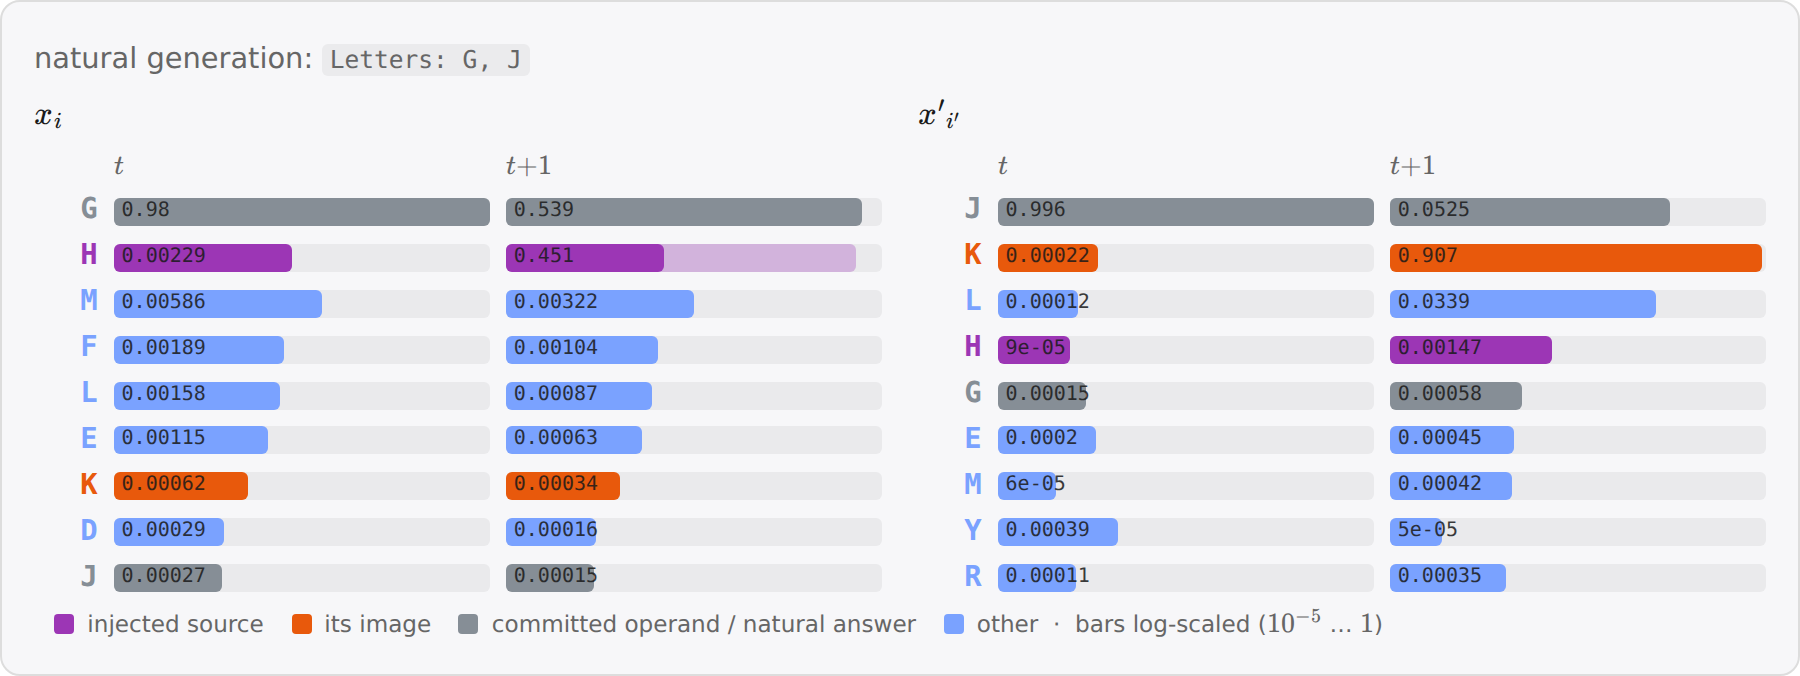
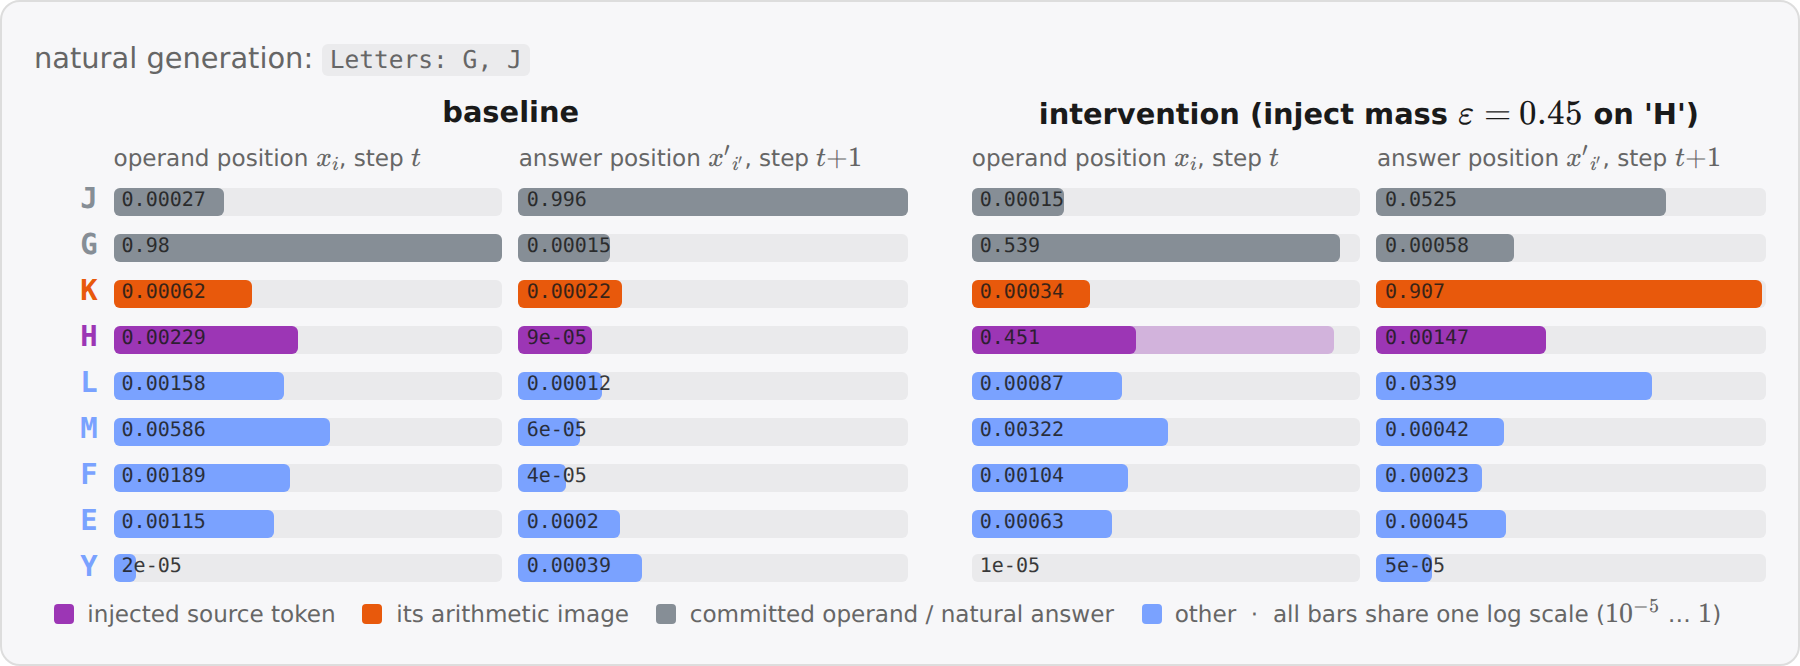
Letters card: baseline|intervention columns, t/t+1 = operand/answer positions, unified rows + shared log range, NL-prefaced symbols
Claude-Session: https://claude.ai/code/session_01U8CiyQ7ySpBDkYEq4FzNBU

diff --git a/post.html b/post.html
@@ -35,6 +35,10 @@ p>em:first-child{color:var(--muted)}
 .brow{display:grid;grid-template-columns:11em 1fr 1fr;gap:8px;align-items:center;margin:2px 0}
 .card .cols2 .brow{grid-template-columns:2.2em 1fr 1fr}
 .card .cols2 .brow.wide{grid-template-columns:10.5em 1fr}
+.brow.b4c{grid-template-columns:2.2em 1fr 1fr 16px 1fr 1fr}
+.ghead .gh{font-weight:600;text-align:center}
+.ghead .gh.s2{grid-column:span 2}
+.ghead{margin:6px 0 0}
 .brow .btok{font-family:ui-monospace,monospace;text-align:right;font-weight:600}
 .brow .btok.sm{font-weight:400;font-size:.85em;text-align:right}
 .btrack{position:relative;height:14px;background:color-mix(in srgb,var(--fg) 6%,transparent);border-radius:3px;overflow:visible}

diff --git a/scripts/build_html.py b/scripts/build_html.py
@@ -66,23 +66,9 @@ LOGFLOOR = 1e-5
 lgw = lambda p: max(0.0, (math.log10(max(p, LOGFLOOR)) - math.log10(LOGFLOOR)) / -math.log10(LOGFLOOR)) * 100
 
 
-def bar_rows(entries, cls_of, inc_tok=None, inc_base=None):
-    """Log-scaled paired bars (t, t+1). For inc_tok, the injected increment beyond inc_base is
-    drawn at low alpha; alphas of the t and t+1 bars themselves are identical."""
-    rows = [('<div class="brow bhead"><span class="btok"></span><span class="bh">$t$</span>'
-             '<span class="bh">$t{+}1$</span></div>')]
-    for tok, p1, p2 in entries:
-        col = CL[cls_of(tok)]
-        seg2 = f'<i style="width:{lgw(p2):.1f}%;background:{col}"></i>'
-        if tok == inc_tok:
-            seg2 = (f'<i style="width:{lgw(p2):.1f}%;background:{col};opacity:.3"></i>'
-                    f'<i style="width:{lgw(inc_base):.1f}%;background:{col}"></i>')
-        rows.append(
-            f'<div class="brow"><span class="btok" style="color:{col}">{E(tok)}</span>'
-            f'<span class="btrack"><i style="width:{lgw(p1):.1f}%;background:{col}"></i>'
-            f'<b class="bv1">{p1:.3g}</b></span>'
-            f'<span class="btrack">{seg2}<b class="bv2">{p2:.3g}</b></span></div>')
-    return "".join(rows)
+def bar(p, col):
+    return (f'<span class="btrack"><i style="width:{lgw(p):.1f}%;background:{col}"></i>'
+            f'<b class="bv1">{p:.3g}</b></span>')
 
 
 def pills(*ps):
@@ -93,17 +79,33 @@ def ill_letters_example():
     d = json.load(open(DATA / "letters_example.json"))
     cls = lambda tok: ("inj" if tok == d["x"] else "tgt" if tok == d["img"] else
                        "att" if tok in (d["ja"], d["nat"]) else "oth")
-    x_before = next(p1 for tok, p1, _ in d["A"] if tok == d["x"])
+    sub_t = "operand position $x_i$, step $t$"
+    sub_t1 = "answer position ${x'}_{i'}$, step $t{+}1$"
+    head = (f'<div class="brow b4c ghead"><span></span><span class="gh s2">baseline</span>'
+            f'<span></span><span class="gh s2">intervention (inject mass '
+            f'$\\varepsilon={d["eps"]:g}$ on \'{E(d["x"])}\')</span></div>'
+            f'<div class="brow b4c bhead"><span></span><span class="bh">{sub_t}</span><span class="bh">{sub_t1}</span>'
+            f'<span></span><span class="bh">{sub_t}</span><span class="bh">{sub_t1}</span></div>')
+    body = []
+    for tok, ab, ap, bb, bp in d["rows"]:
+        col = CL[cls(tok)]
+        # intervention @ operand: the injected increment beyond the carried-over mass, low alpha
+        if tok == d["x"]:
+            carried = ab * (1 - d["eps"])
+            ap_bar = (f'<span class="btrack"><i style="width:{lgw(ap):.1f}%;background:{col};opacity:.3"></i>'
+                      f'<i style="width:{lgw(carried):.1f}%;background:{col}"></i>'
+                      f'<b class="bv1">{ap:.3g}</b></span>')
+        else:
+            ap_bar = bar(ap, col)
+        body.append(f'<div class="brow b4c"><span class="btok" style="color:{col}">{E(tok)}</span>'
+                    + bar(ab, col) + bar(bb, col) + "<span></span>" + ap_bar + bar(bp, col) + "</div>")
     return f"""<div class="card">
 <p class="small">natural generation: <code class="gen">{E(d['final'])}</code></p>
-<div class="cols2">
-<div><h4>$x_i$</h4>{bar_rows(d['A'], cls, inc_tok=d['x'], inc_base=x_before * (1 - d['eps']))}</div>
-<div><h4>${{x'}}_{{i'}}$</h4>{bar_rows(d['B'], cls)}</div>
-</div>
-<span class="leg"><i style="background:{CL['inj']}"></i> injected source
-<i style="background:{CL['tgt']}"></i> its image
+{head}{''.join(body)}
+<span class="leg"><i style="background:{CL['inj']}"></i> injected source token
+<i style="background:{CL['tgt']}"></i> its arithmetic image
 <i style="background:{CL['att']}"></i> committed operand / natural answer
-<i style="background:{CL['oth']}"></i> other &nbsp;·&nbsp; bars log-scaled ($10^{{-5}}$ … $1$)</span>
+<i style="background:{CL['oth']}"></i> other &nbsp;·&nbsp; all bars share one log scale ($10^{{-5}}$ … $1$)</span>
 </div>"""
 
 
@@ -191,6 +193,10 @@ p>em:first-child{color:var(--muted)}
 .brow{display:grid;grid-template-columns:11em 1fr 1fr;gap:8px;align-items:center;margin:2px 0}
 .card .cols2 .brow{grid-template-columns:2.2em 1fr 1fr}
 .card .cols2 .brow.wide{grid-template-columns:10.5em 1fr}
+.brow.b4c{grid-template-columns:2.2em 1fr 1fr 16px 1fr 1fr}
+.ghead .gh{font-weight:600;text-align:center}
+.ghead .gh.s2{grid-column:span 2}
+.ghead{margin:6px 0 0}
 .brow .btok{font-family:ui-monospace,monospace;text-align:right;font-weight:600}
 .brow .btok.sm{font-weight:400;font-size:.85em;text-align:right}
 .btrack{position:relative;height:14px;background:color-mix(in srgb,var(--fg) 6%,transparent);border-radius:3px;overflow:visible}

diff --git a/scripts/extract_letters_example.py b/scripts/extract_letters_example.py
@@ -34,19 +34,18 @@ base = {field[q] if isinstance(field[q], str) else q: (st["base"][q] or 0.0) for
 base = {field[q]: (st["base"][q] or 0.0) for q in range(52)}
 arm = {field[q]: (c["arm"][q] or 0.0) for q in range(52)}
 
-def top(d1, d2, keep, n=9):
-    toks = sorted(field, key=lambda w: -max(d1.get(w, 0), d2.get(w, 0)))
-    sel = [w for w in toks if max(d1.get(w, 0), d2.get(w, 0)) > 0][:n]
-    for w in keep:
-        if w not in sel:
-            sel.append(w)
-    sel.sort(key=lambda w: -max(d1.get(w, 0), d2.get(w, 0)))
-    return [[w, round(d1.get(w, 0), 5), round(d2.get(w, 0), 5)] for w in sel]
+# unified token rows: [tok, A_base, A_pert, B_base, B_pert], shared across all four bar tracks
+vecs = (stA, stAp, base, arm)
+mx = lambda w: max(v.get(w, 0) or 0 for v in vecs)
+sel = [w for w in sorted(field, key=lambda w: -mx(w)) if mx(w) > 0][:9]
+for w in (X, img, bst["nat"], bst["ja"]):
+    if w not in sel:
+        sel.append(w)
+sel.sort(key=lambda w: -mx(w))
+rows = [[w] + [round(v.get(w, 0) or 0, 5) for v in vecs] for w in sel]
 
 out = dict(prompt=tm["prompts"]["UU3"], final=bst["final"], nat=bst["nat"], ja=bst["ja"],
-           k=k, eps=EPS, x=X, img=img, draws=tm["draws"], t=2,
-           A=top(stA, stAp, keep=[X, bst["nat"]]),
-           B=top(base, arm, keep=[img, X, bst["ja"]]))
+           k=k, eps=EPS, x=X, img=img, draws=tm["draws"], t=2, rows=rows)
 (ROOT / "data").mkdir(exist_ok=True)
 json.dump(out, open(ROOT / "data" / "letters_example.json", "w"), indent=1)
 print(ROOT / "data" / "letters_example.json")
